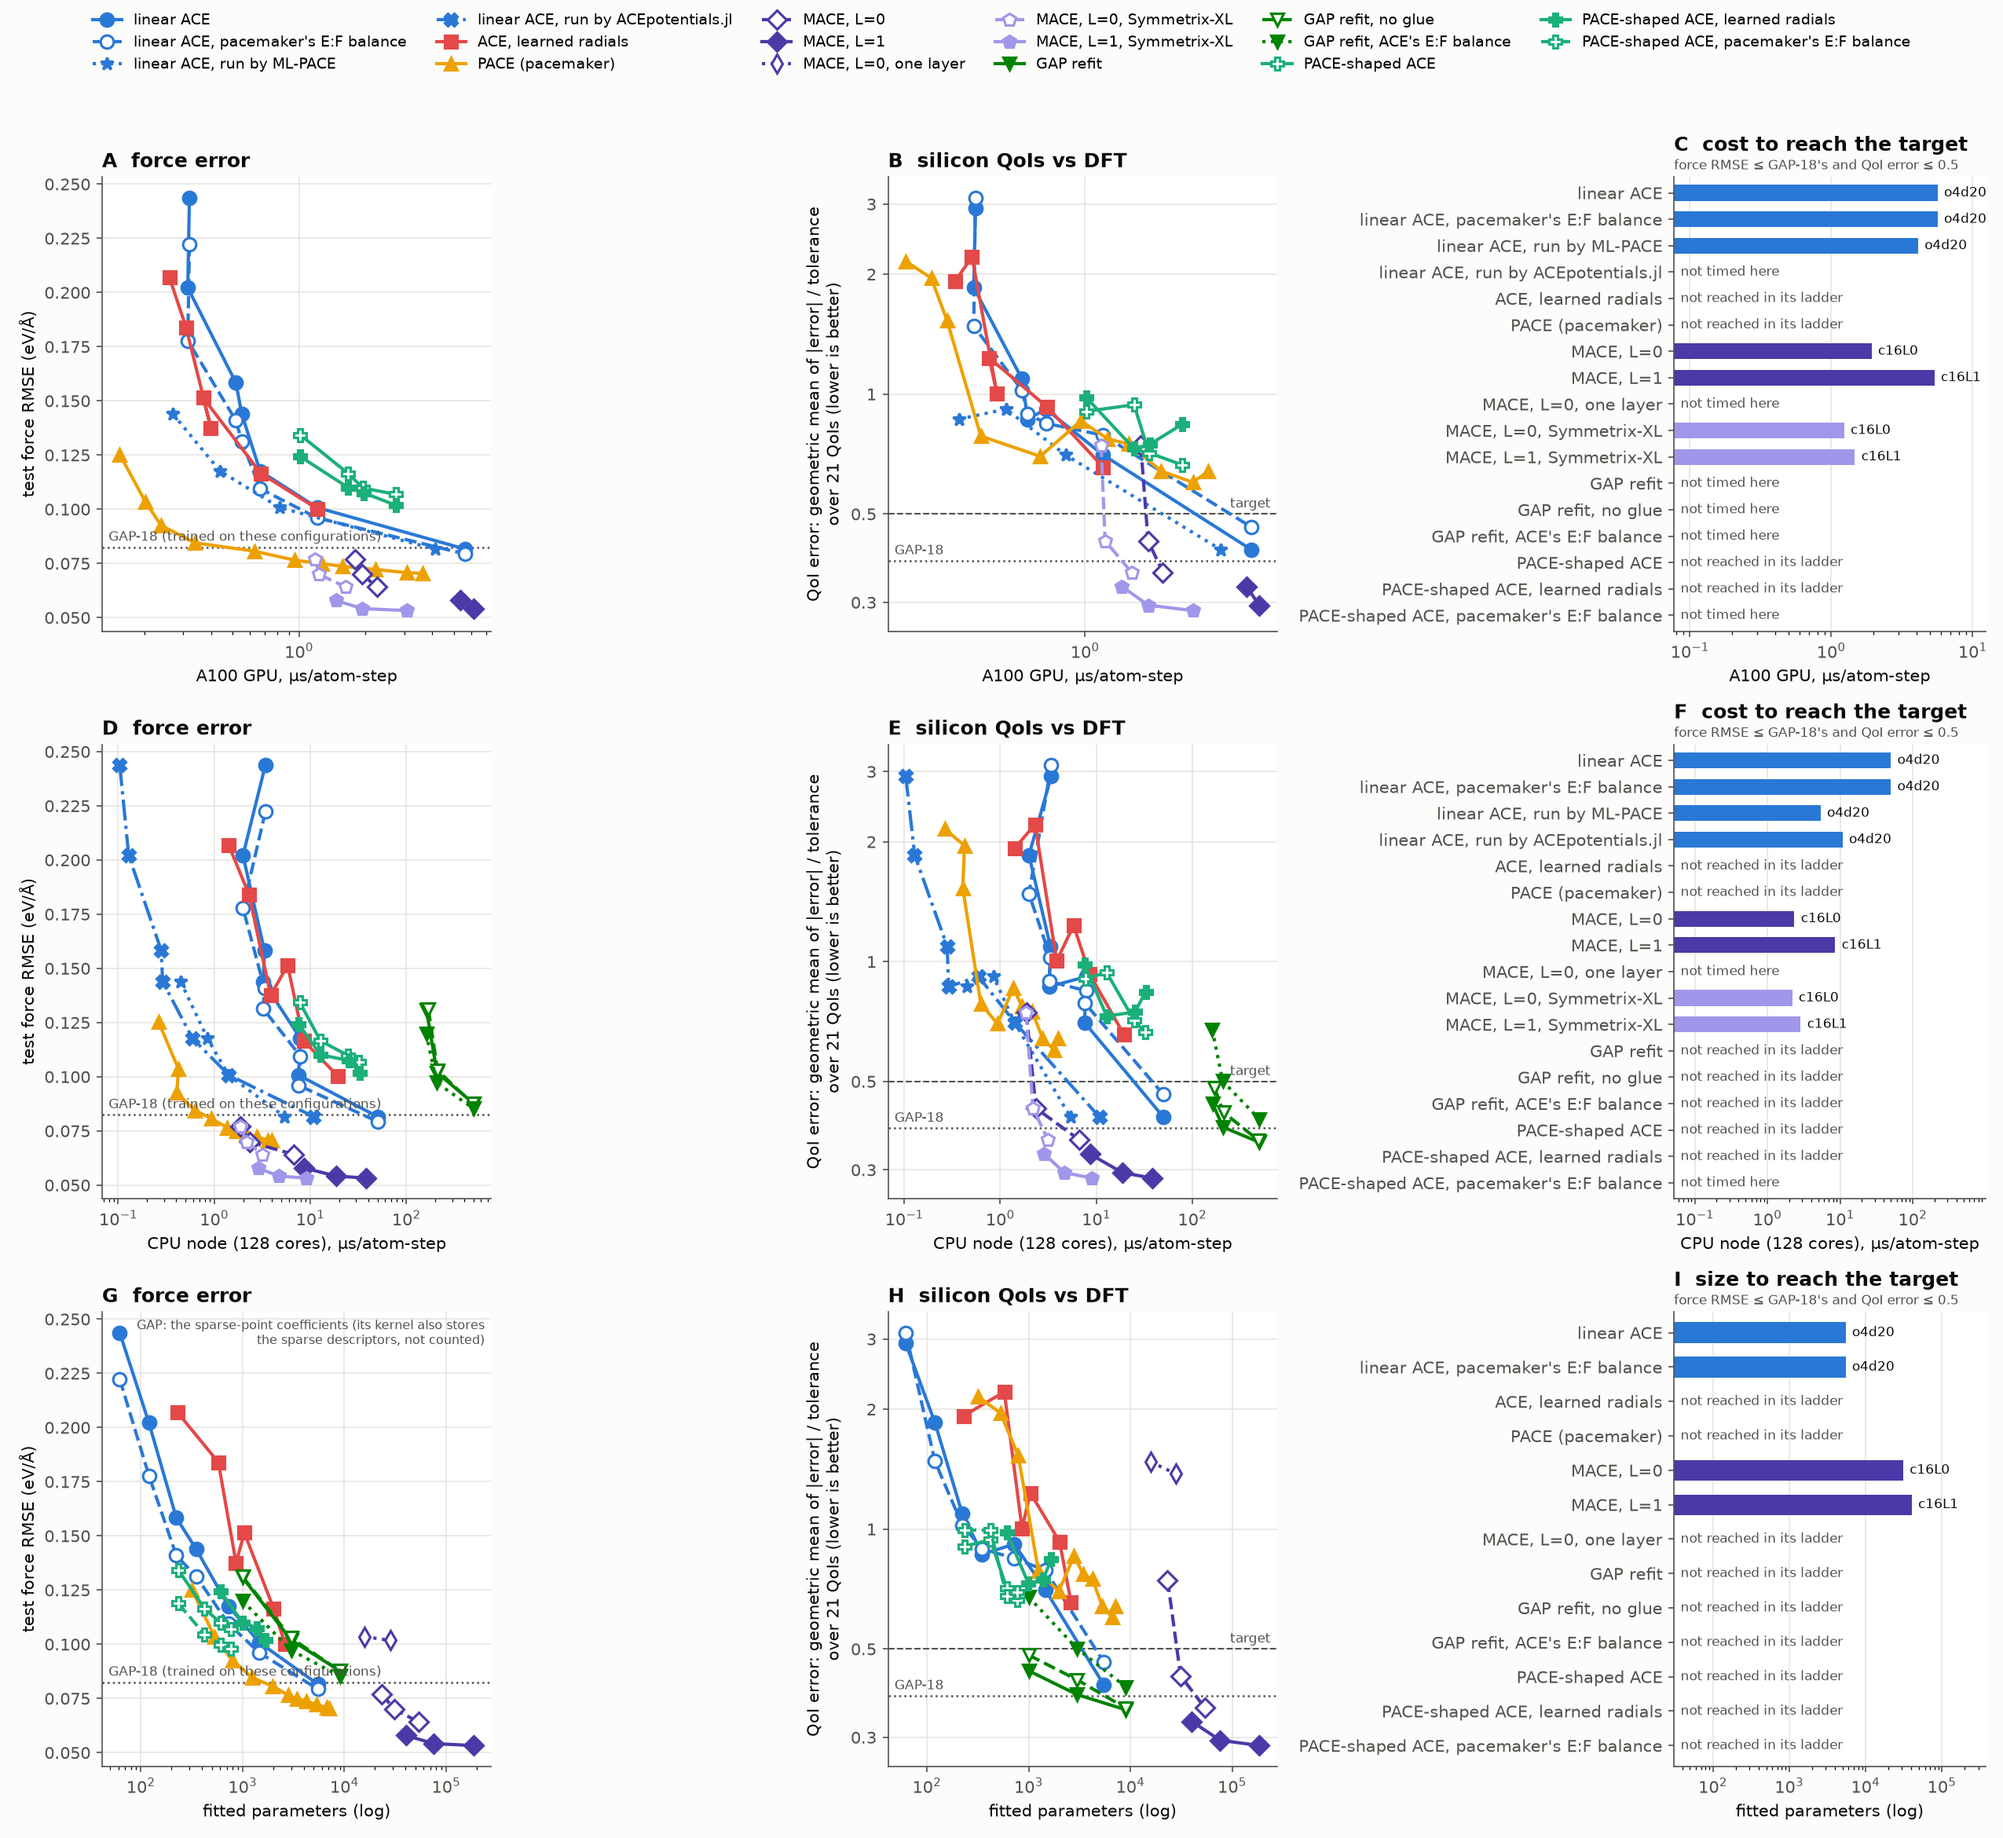
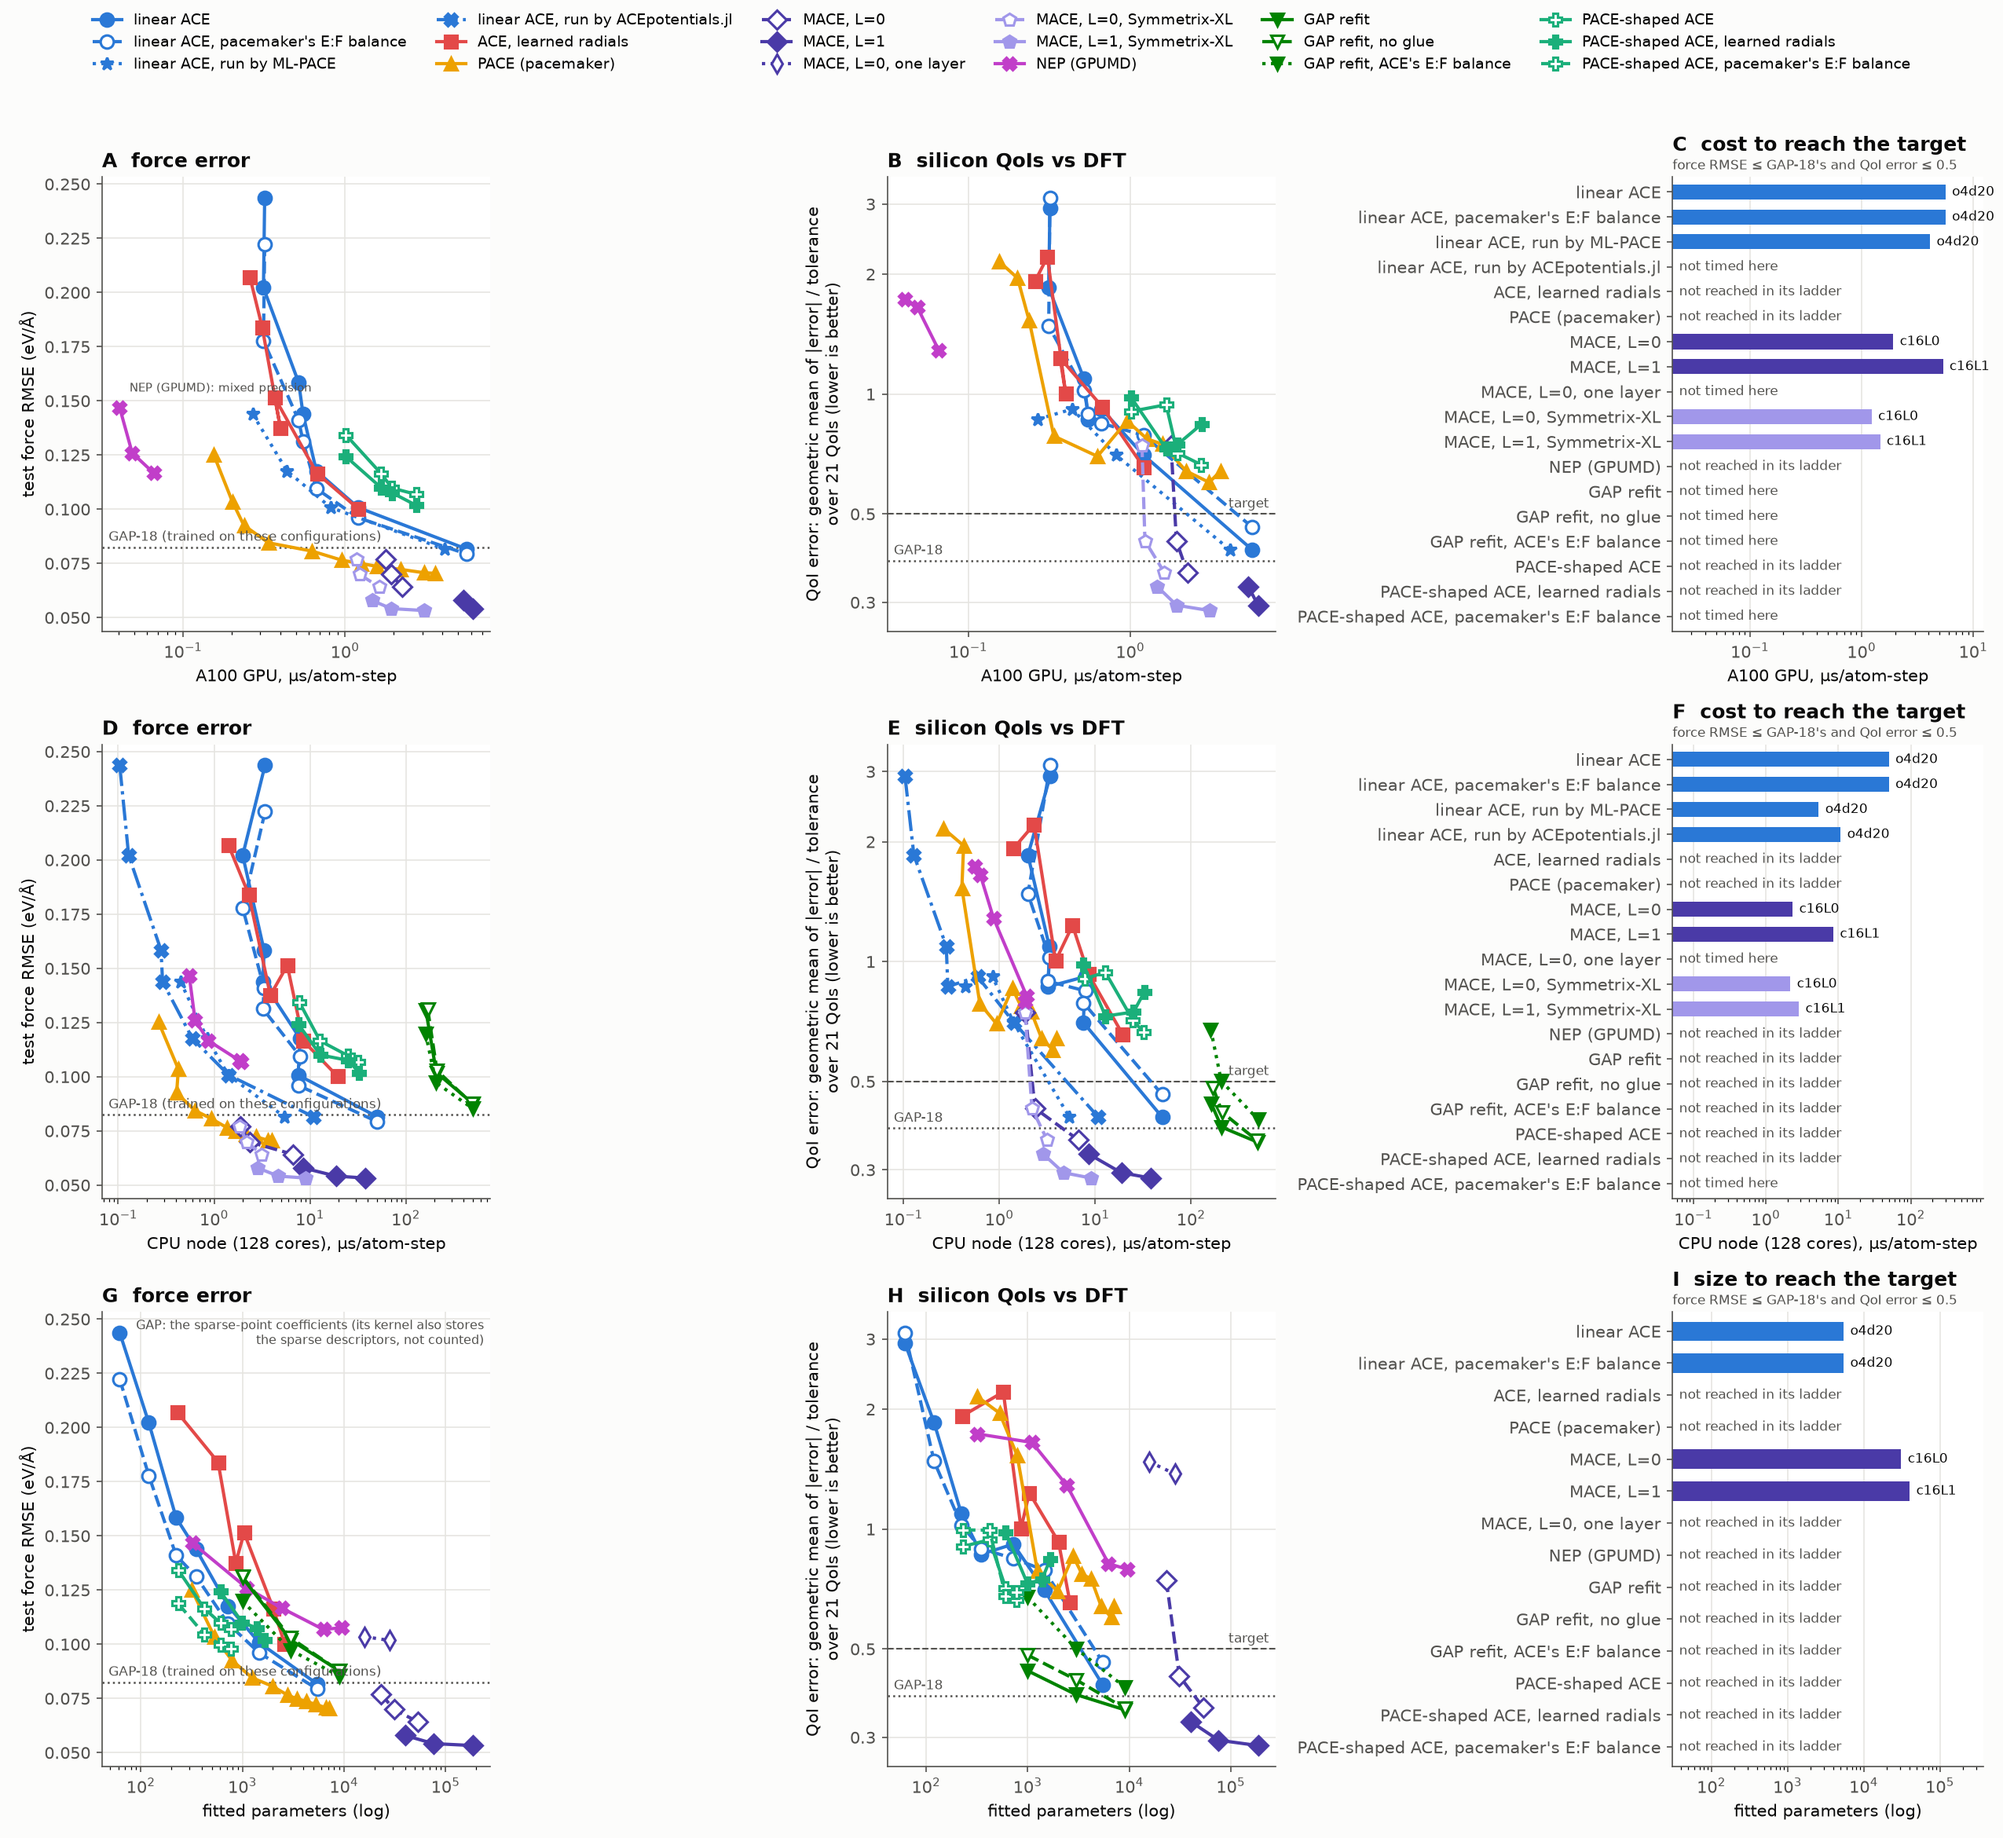
bench(accuracy-cost): NEP GPU rows n10-n50, cost files and figures with the ACEpotentials.jl rows; mixed-precision label stays on the axes

diff --git a/bench/si_qoi/plot_cost.py b/bench/si_qoi/plot_cost.py
@@ -189,8 +189,9 @@ def flag(ax, data, codes, key):
         for (head, r), qs in why.items():
             q = max(qs, key=lambda q: q[key])      # above the highest: the label sits clear of the data
             head = head or f"{', '.join(p['size'] for p in qs)}: standalone"
-            ax.annotate(head + (f"\n({r})" if r else ""), (q["x"], q[key]),
-                        xytext=(-6, 10), textcoords="offset points", ha="right", fontsize=7, color=MUTED)
+            left = ax.transAxes.inverted().transform(ax.transData.transform((q["x"], q[key])))[0] < 0.5   # a right-aligned label off a cheap point runs off the axes
+            ax.annotate(head + (f"\n({r})" if r else ""), (q["x"], q[key]), xytext=(6 if left else -6, 10),
+                        textcoords="offset points", ha="left" if left else "right", fontsize=7, color=MUTED)
 
 
 def draw_row(axes, data, ref, xlabel, codes, letters, what):
